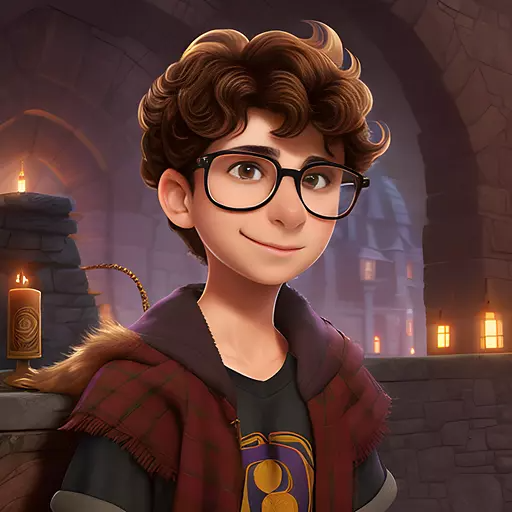
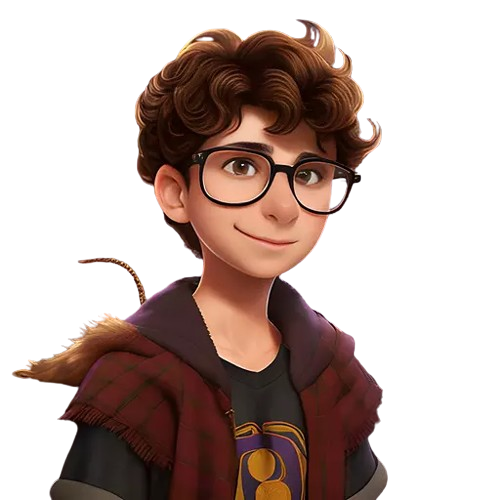
done-3

diff --git a/app/page.tsx b/app/page.tsx
@@ -80,6 +80,9 @@ export default function Home() {
 
         <Image src="/cliff.webp" alt="cliff" width={480} height={480} />
       </div>
+        <div className={'absolute top-0'}>
+            <Image src="/profile.png" alt="cliff" width={540} height={480} />
+        </div>
 
       <div className="absolute bottom-0 z-[5] w-full h-auto">
         <Image
